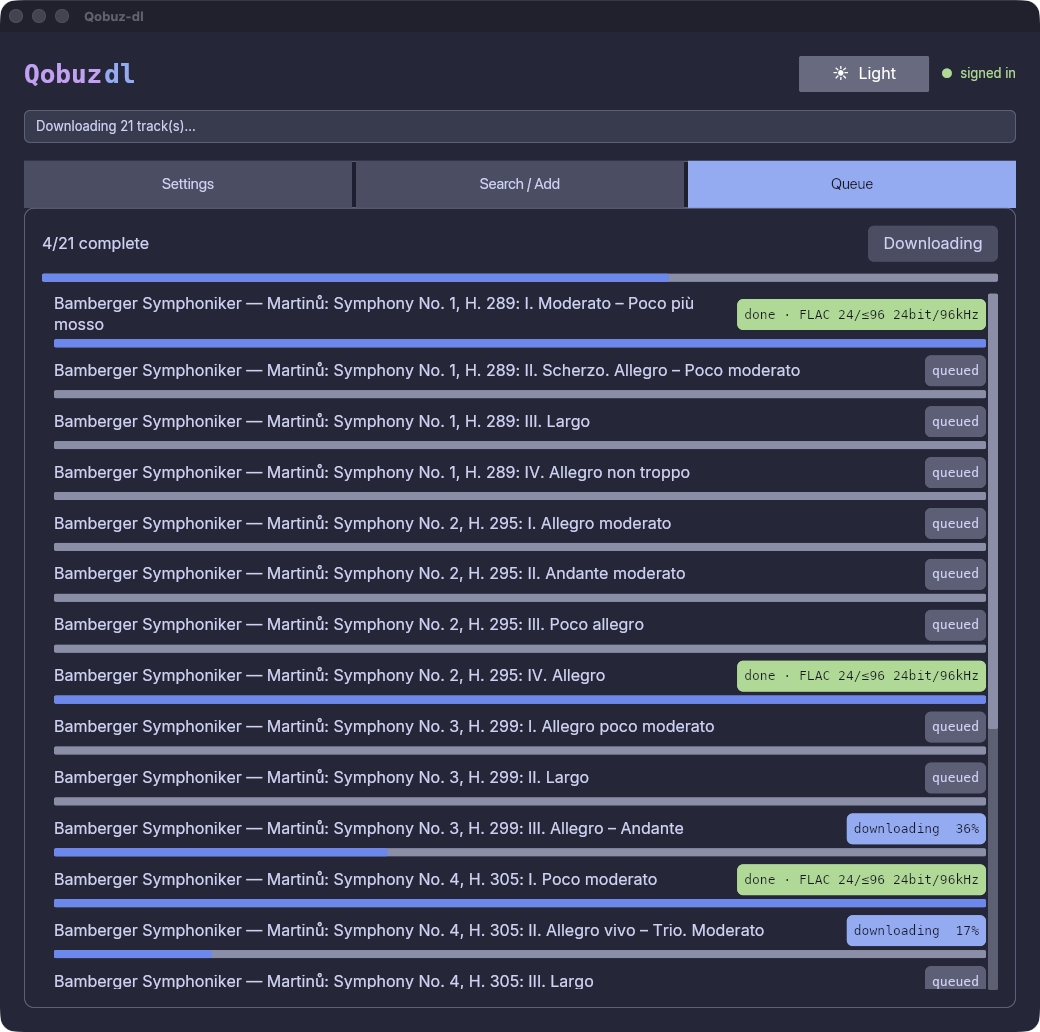
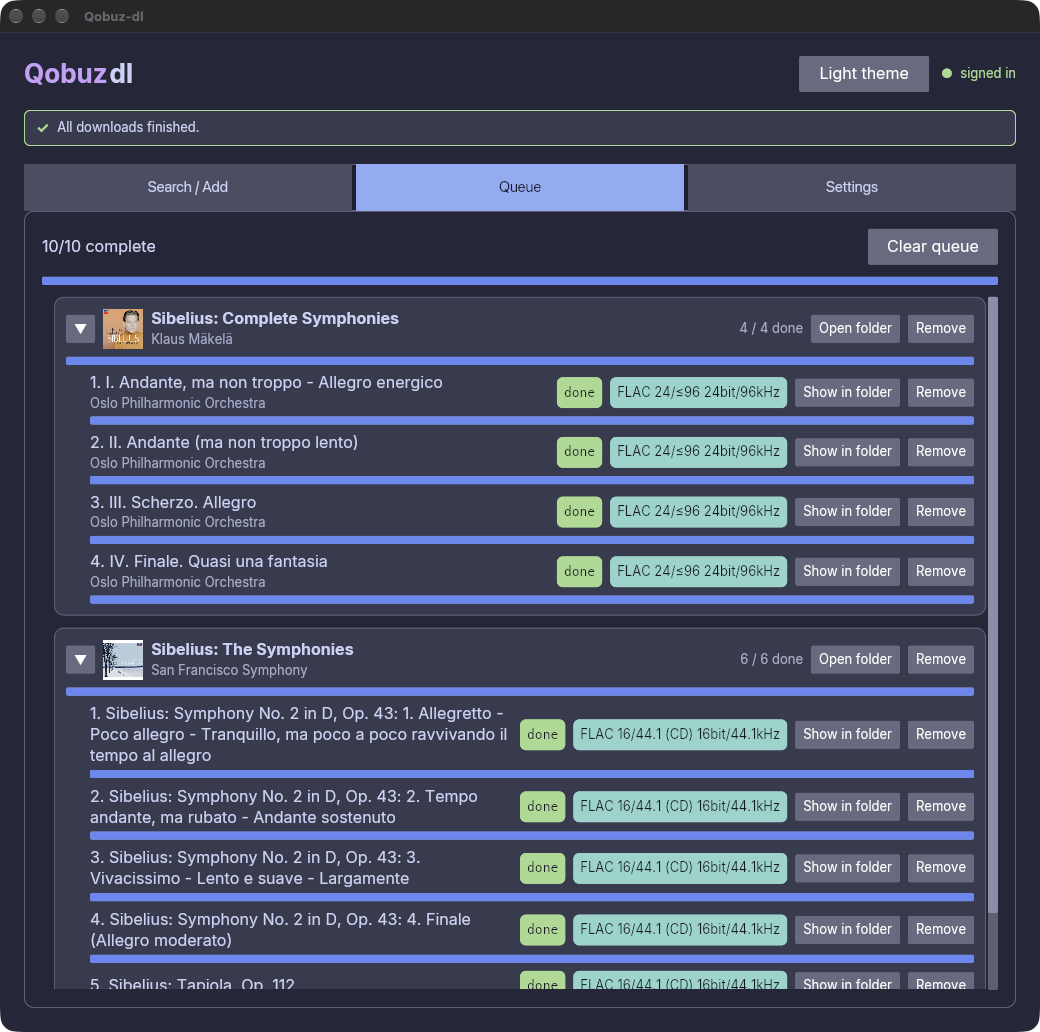
docs: refresh README screenshots for the redesigned UI
The screenshots still showed the v1.0 layout: Settings as the first tab,
coloured card headers, separate search and URL bars, and a flat queue.

Retakes Search, Queue, and Settings from the current build, at the same
1040x1032 window size and dark theme, and adds the album screen as a
fourth column. The queue shot shows downloads grouped by album with the
open-folder actions; Settings shows the notification option and the
download-folder Open button. As before, the app_id field is blanked,
and the token and app_secret appear only masked, as the app renders
them. The caption is rewritten to describe the four screens.

diff --git a/README.md b/README.md
@@ -25,13 +25,14 @@ quality, cover art, file organization, and tags.
 
 ## Screenshots
 
-| Search | Queue | Settings |
-| --- | --- | --- |
-| ![Search screen — album results with cover art](docs/screenshots/search.png) | ![Queue screen — per-track progress and status](docs/screenshots/queue.png) | ![Settings screen — account, quality, and path templates](docs/screenshots/settings.png) |
+| Search | Album | Queue | Settings |
+| --- | --- | --- | --- |
+| ![Search screen — album results with cover art and Hi-Res badges](docs/screenshots/search.png) | ![Album screen — track list with selection and durations](docs/screenshots/album.png) | ![Queue screen — downloads grouped by album, with open-folder actions](docs/screenshots/queue.png) | ![Settings screen — account, quality, path templates, and notifications](docs/screenshots/settings.png) |
 
-*Search for albums, tracks, or playlists — or paste a Qobuz URL. The queue shows
-per-track progress with retry for failed items. Settings hold your credentials,
-quality preference, and path templates.*
+*Search for albums and tracks, or paste a Qobuz URL. Open an album to pick the
+tracks you want. The queue groups downloads by album, with per-track progress,
+retry, and buttons to open the downloaded files. Settings hold your
+credentials, quality preference, path templates, and notifications.*
 
 ## Installation
 
